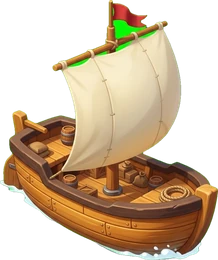
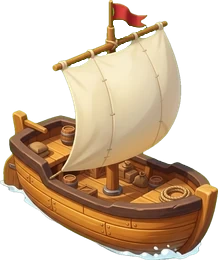
Đảo Khai Hoang: xóa sạch phần nền xanh lá còn sót trên ảnh con thuyền
Claude-Session: https://claude.ai/code/session_01C6iMujCmX6wKKq45Tr3EAE

diff --git a/games/dao-khai-hoang/ui.js b/games/dao-khai-hoang/ui.js
@@ -192,7 +192,7 @@ const KHUI=(()=>{
         const others=S.seats.map((x,i)=>i).filter(i=>i!==ME), okO=main&&P.res[og]>=oq&&og!==ow;
         const popH=(pop==='bank'||pop==='port')?`<div class="box pop"><button class="pclose" type="button" data-a="closepop" aria-label="Đóng">×</button><div class="cth">${isB?'Ngân hàng · đổi 4 lấy 1':'Cảng · đổi theo cảng của bạn'}</div><div class="plb">Đưa (số lá cần có)</div><div class="rrow">${gb}</div><div class="plb">Lấy</div><div class="rrow">${wb}</div><button class="tbtn pri wide" data-a="trade" ${okT?'':'disabled'}>Đổi ${rt[tg]} <img class="ri" src="assets/ic-${tg}.webp?v=2026112823y" alt=""> lấy 1 <img class="ri" src="assets/ic-${tw}.webp?v=2026112823y" alt=""></button></div>`
           :'';
-                HV+=`<div class="tbar">${popH}<button class="bt bk ${anyBk?'ring':''} ${pop==='bank'?'on':''}" data-a="pop" data-k="bank" title="Ngân hàng: đổi 4 lá cùng loại lấy 1 lá bất kỳ"><img src="assets/bank.webp?v=2026112823y" alt=""><small>Ngân hàng</small></button><button class="bt pt ${anyPt?'ring':''} ${pop==='port'?'on':''}" data-a="pop" data-k="port" ${hasPort?'':'disabled'} title="${hasPort?'Cảng: đổi theo tỉ lệ cảng của bạn':'Cần có nhà hoặc thành phố ở cảng mới đổi được'}"><img src="assets/boat.webp?v=2026112823y" alt=""><small>Cảng</small></button><button class="bt bm ${pop==='offer'?'on':''}" data-a="pop" data-k="offer" title="Trao đổi: gửi yêu cầu đổi với người chơi khác"><img src="assets/market.webp?v=2026112823y" alt=""><small>Trao đổi</small></button>${S.undo===ME&&ME>=0&&S.phase!=='over'?'<button class="tbtn kundo" data-a="undo" title="Quay lại nước vừa đi">↩ Hoàn tác</button>':''}${my&&S.phase==='play'&&S.step==='roll'?'<button class="tbtn pri kend rdy kroll" data-a="roll">🎲 Đổ xúc xắc</button>':`<button class="tbtn pri kend ${main?'rdy':''}" data-a="end" ${main?'':'disabled'}>Kết thúc lượt</button>`}</div>`; }
+                HV+=`<div class="tbar">${popH}<button class="bt bk ${anyBk?'ring':''} ${pop==='bank'?'on':''}" data-a="pop" data-k="bank" title="Ngân hàng: đổi 4 lá cùng loại lấy 1 lá bất kỳ"><img src="assets/bank.webp?v=2026112823y" alt=""><small>Ngân hàng</small></button><button class="bt pt ${anyPt?'ring':''} ${pop==='port'?'on':''}" data-a="pop" data-k="port" ${hasPort?'':'disabled'} title="${hasPort?'Cảng: đổi theo tỉ lệ cảng của bạn':'Cần có nhà hoặc thành phố ở cảng mới đổi được'}"><img src="assets/boat.webp?v=20261128g" alt=""><small>Cảng</small></button><button class="bt bm ${pop==='offer'?'on':''}" data-a="pop" data-k="offer" title="Trao đổi: gửi yêu cầu đổi với người chơi khác"><img src="assets/market.webp?v=2026112823y" alt=""><small>Trao đổi</small></button>${S.undo===ME&&ME>=0&&S.phase!=='over'?'<button class="tbtn kundo" data-a="undo" title="Quay lại nước vừa đi">↩ Hoàn tác</button>':''}${my&&S.phase==='play'&&S.step==='roll'?'<button class="tbtn pri kend rdy kroll" data-a="roll">🎲 Đổ xúc xắc</button>':`<button class="tbtn pri kend ${main?'rdy':''}" data-a="end" ${main?'':'disabled'}>Kết thúc lượt</button>`}</div>`; }
       { const mx=Math.max(0,...S.P.map(q=>q.lr)), mk=Math.max(0,...S.P.map(q=>q.knights)); const hd=i=>i>=0?`<span class="hold" style="--pc:${PC[i]}">${api.esc(S.seats[i].name)}</span>`:'<span class="hold none">Chưa ai</span>';
         const slot=(k,cls,own)=>own<0?`<span class="medal ${cls}">${A.medal(k)}</span>`:`<span class="slot"></span>`;
         L+=`<div class="box awp"><div class="cth">Giải thưởng +2 điểm</div>

diff --git a/games/dao-khai-hoang/art.js b/games/dao-khai-hoang/art.js
@@ -89,7 +89,7 @@ const KHART=(()=>{
     [[ax,ay],[bx,by]].forEach(([x,y])=>{ const L=Math.hypot(px-x,py-y), ux=(px-x)/L, uy=(py-y)/L; const nx=-uy*3.2, ny=ux*3.2;
       o+=`<polygon points="${f(x+nx)},${f(y+ny)} ${f(px+nx*.6)},${f(py+ny*.6)} ${f(px-nx*.6)},${f(py-ny*.6)} ${f(x-nx)},${f(y-ny)}" fill="#d9b27a" stroke="#8a5a2c" stroke-width="1.4"/>`;
       for(let k=1;k<6;k++){ const q=k/6; o+=`<line x1="${f(x+(px-x)*q+nx)}" y1="${f(y+(py-y)*q+ny)}" x2="${f(x+(px-x)*q-nx)}" y2="${f(y+(py-y)*q-ny)}" stroke="#8a5a2c" stroke-width="1"/>`; } });
-    o+=`<g transform="translate(${f(px)},${f(py)}) scale(1.25)"><path d="M-25 10 q6 -4 12 0 t12 0 t12 0 t12 0 t12 0" stroke="#fff" stroke-width="2.4" fill="none" opacity=".9"/><path d="M-20 14 q5 -3 10 0 t10 0 t10 0 t10 0" stroke="#bff3fb" stroke-width="1.6" fill="none" opacity=".8"/><g class="boat"><image href="assets/boat.webp?v=2026112823y" x="-20" y="-36.8" width="40" height="47.7" preserveAspectRatio="none"/></g></g>`;
+    o+=`<g transform="translate(${f(px)},${f(py)}) scale(1.25)"><path d="M-25 10 q6 -4 12 0 t12 0 t12 0 t12 0 t12 0" stroke="#fff" stroke-width="2.4" fill="none" opacity=".9"/><path d="M-20 14 q5 -3 10 0 t10 0 t10 0 t10 0" stroke="#bff3fb" stroke-width="1.6" fill="none" opacity=".8"/><g class="boat"><image href="assets/boat.webp?v=20261128g" x="-20" y="-36.8" width="40" height="47.7" preserveAspectRatio="none"/></g></g>`;
     const bx2=px+Math.cos(ang)*55, by2=py+Math.sin(ang)*55;
     o+=`<g transform="translate(${f(bx2)},${f(by2)}) scale(1.75)"><circle r="15.5" fill="#f7ebcd" stroke="#9a6b36" stroke-width="2.4"/><circle r="12.5" fill="none" stroke="#c9a26a" stroke-width=".9"/>${t>=0?resMini(t,0,-4.5,1):''}<text y="${t>=0?9:5}" class="pt">${t<0?'3:1':'2:1'}</text></g>`;
     return o; }

diff --git a/games/dao-khai-hoang/index.html b/games/dao-khai-hoang/index.html
@@ -25,7 +25,7 @@ window.KH_FX=(function(){const d=document.documentElement;
  function toggle(){const n=mode()==='lite'?'full':'lite';try{localStorage.setItem('kh-fx',n);}catch(e){} return apply();}
  apply(); return {mode,apply,toggle};})();
 </script>
-<script src="art.js?v=2026112823y"></script>
+<script src="art.js?v=20261128g"></script>
 <script src="ui.js?v=20261128f"></script>
 <script>
 const CSS=`#kh{padding:8px 10px 14px;min-height:calc(100vh - 60px);background:radial-gradient(ellipse at 40% 30%,#6b4524 0%,#4a2d15 55%,#2c1a0b 100%);color:#f6ead0}
